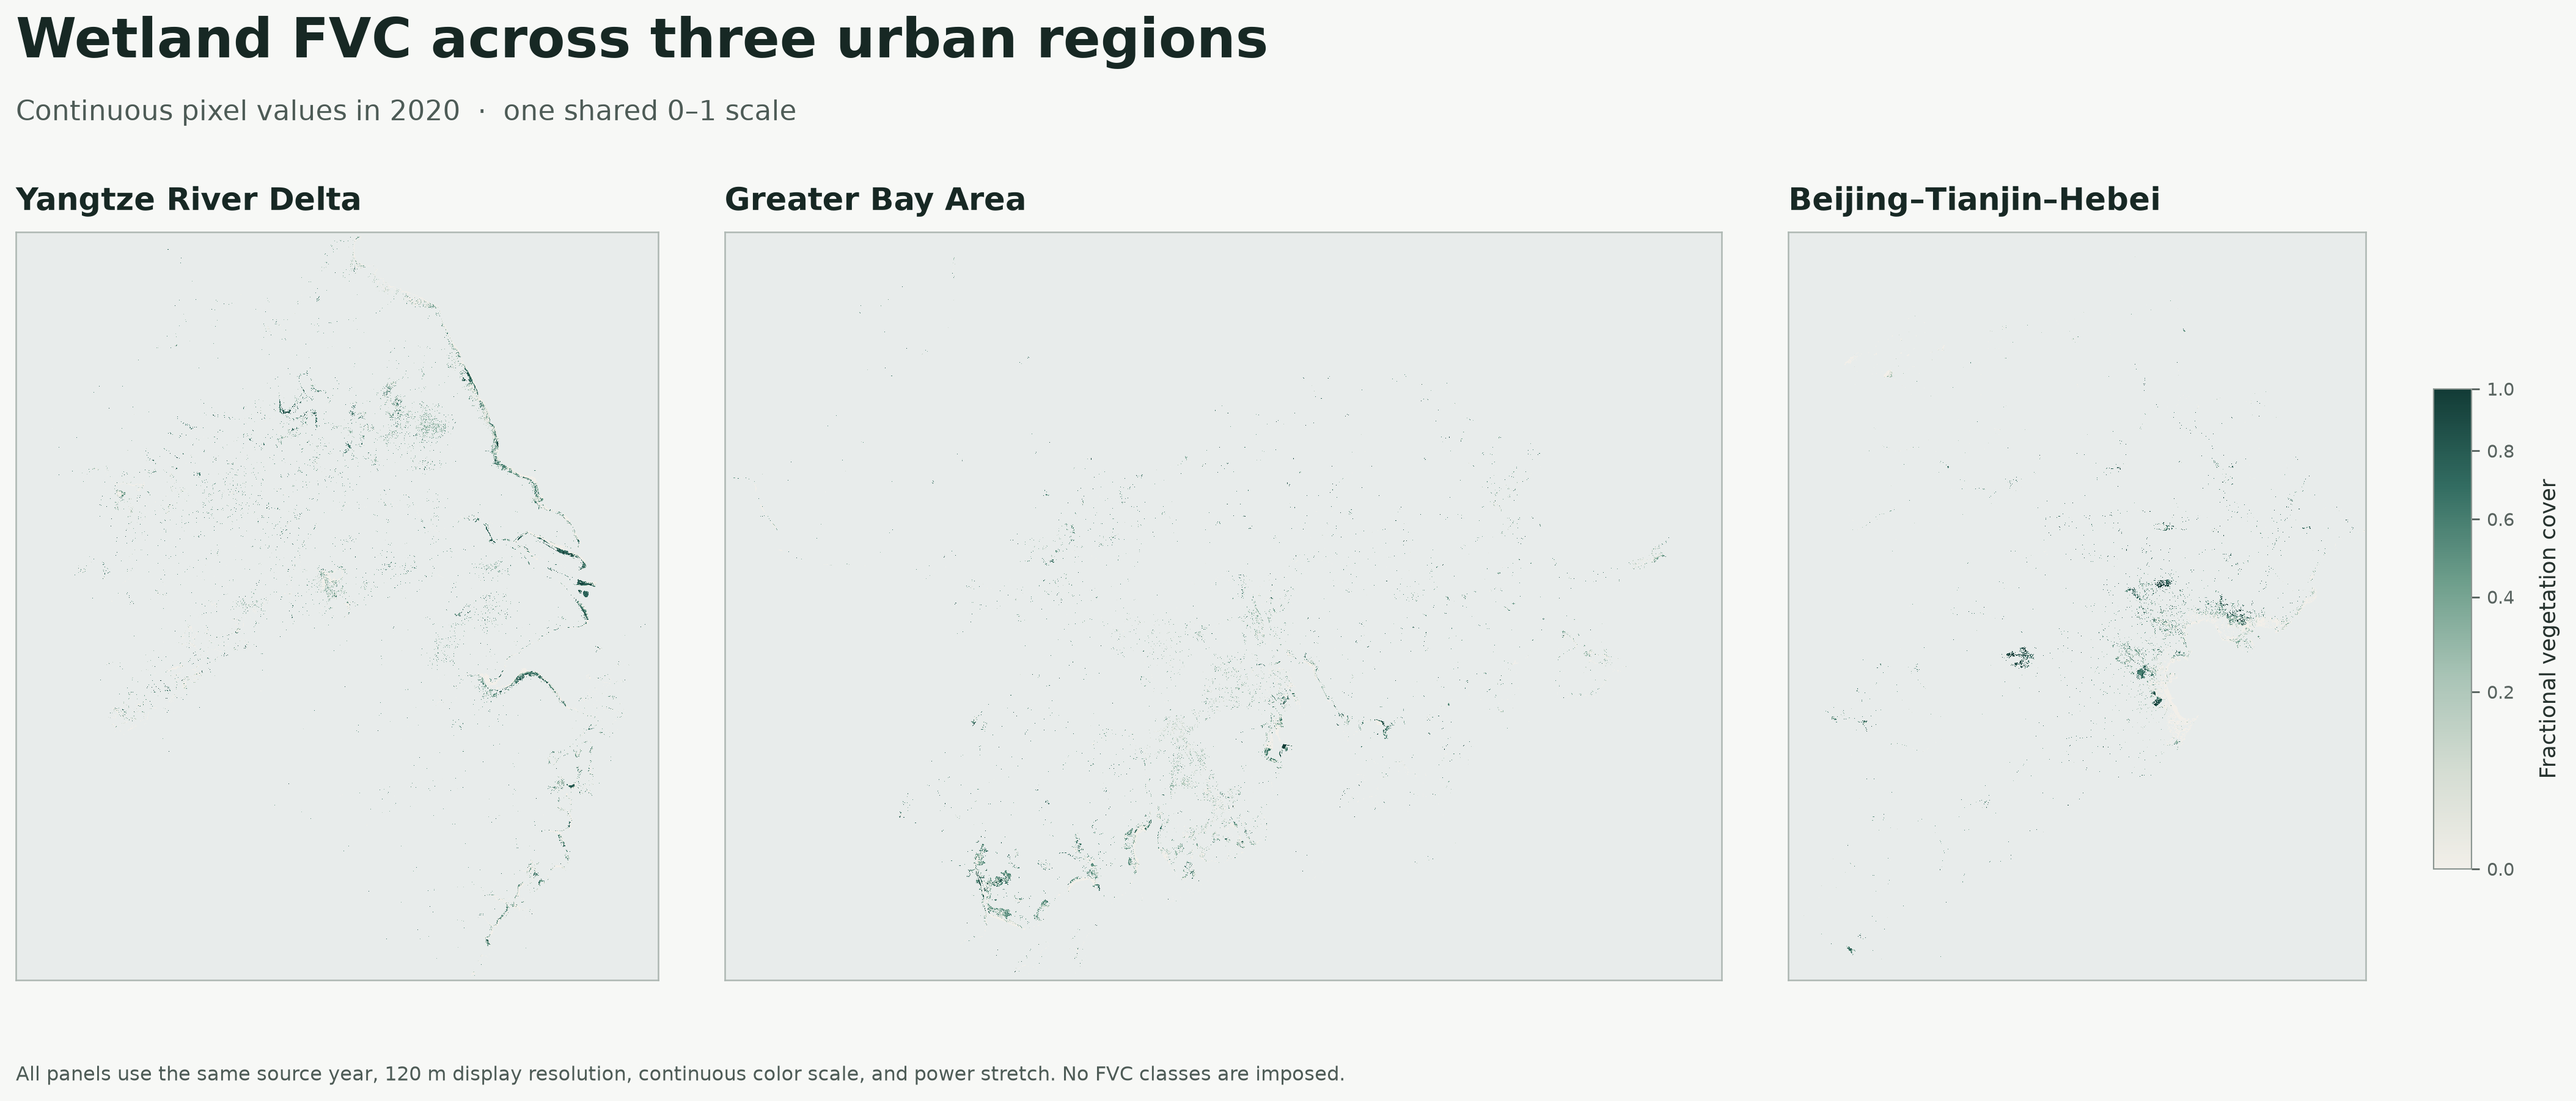
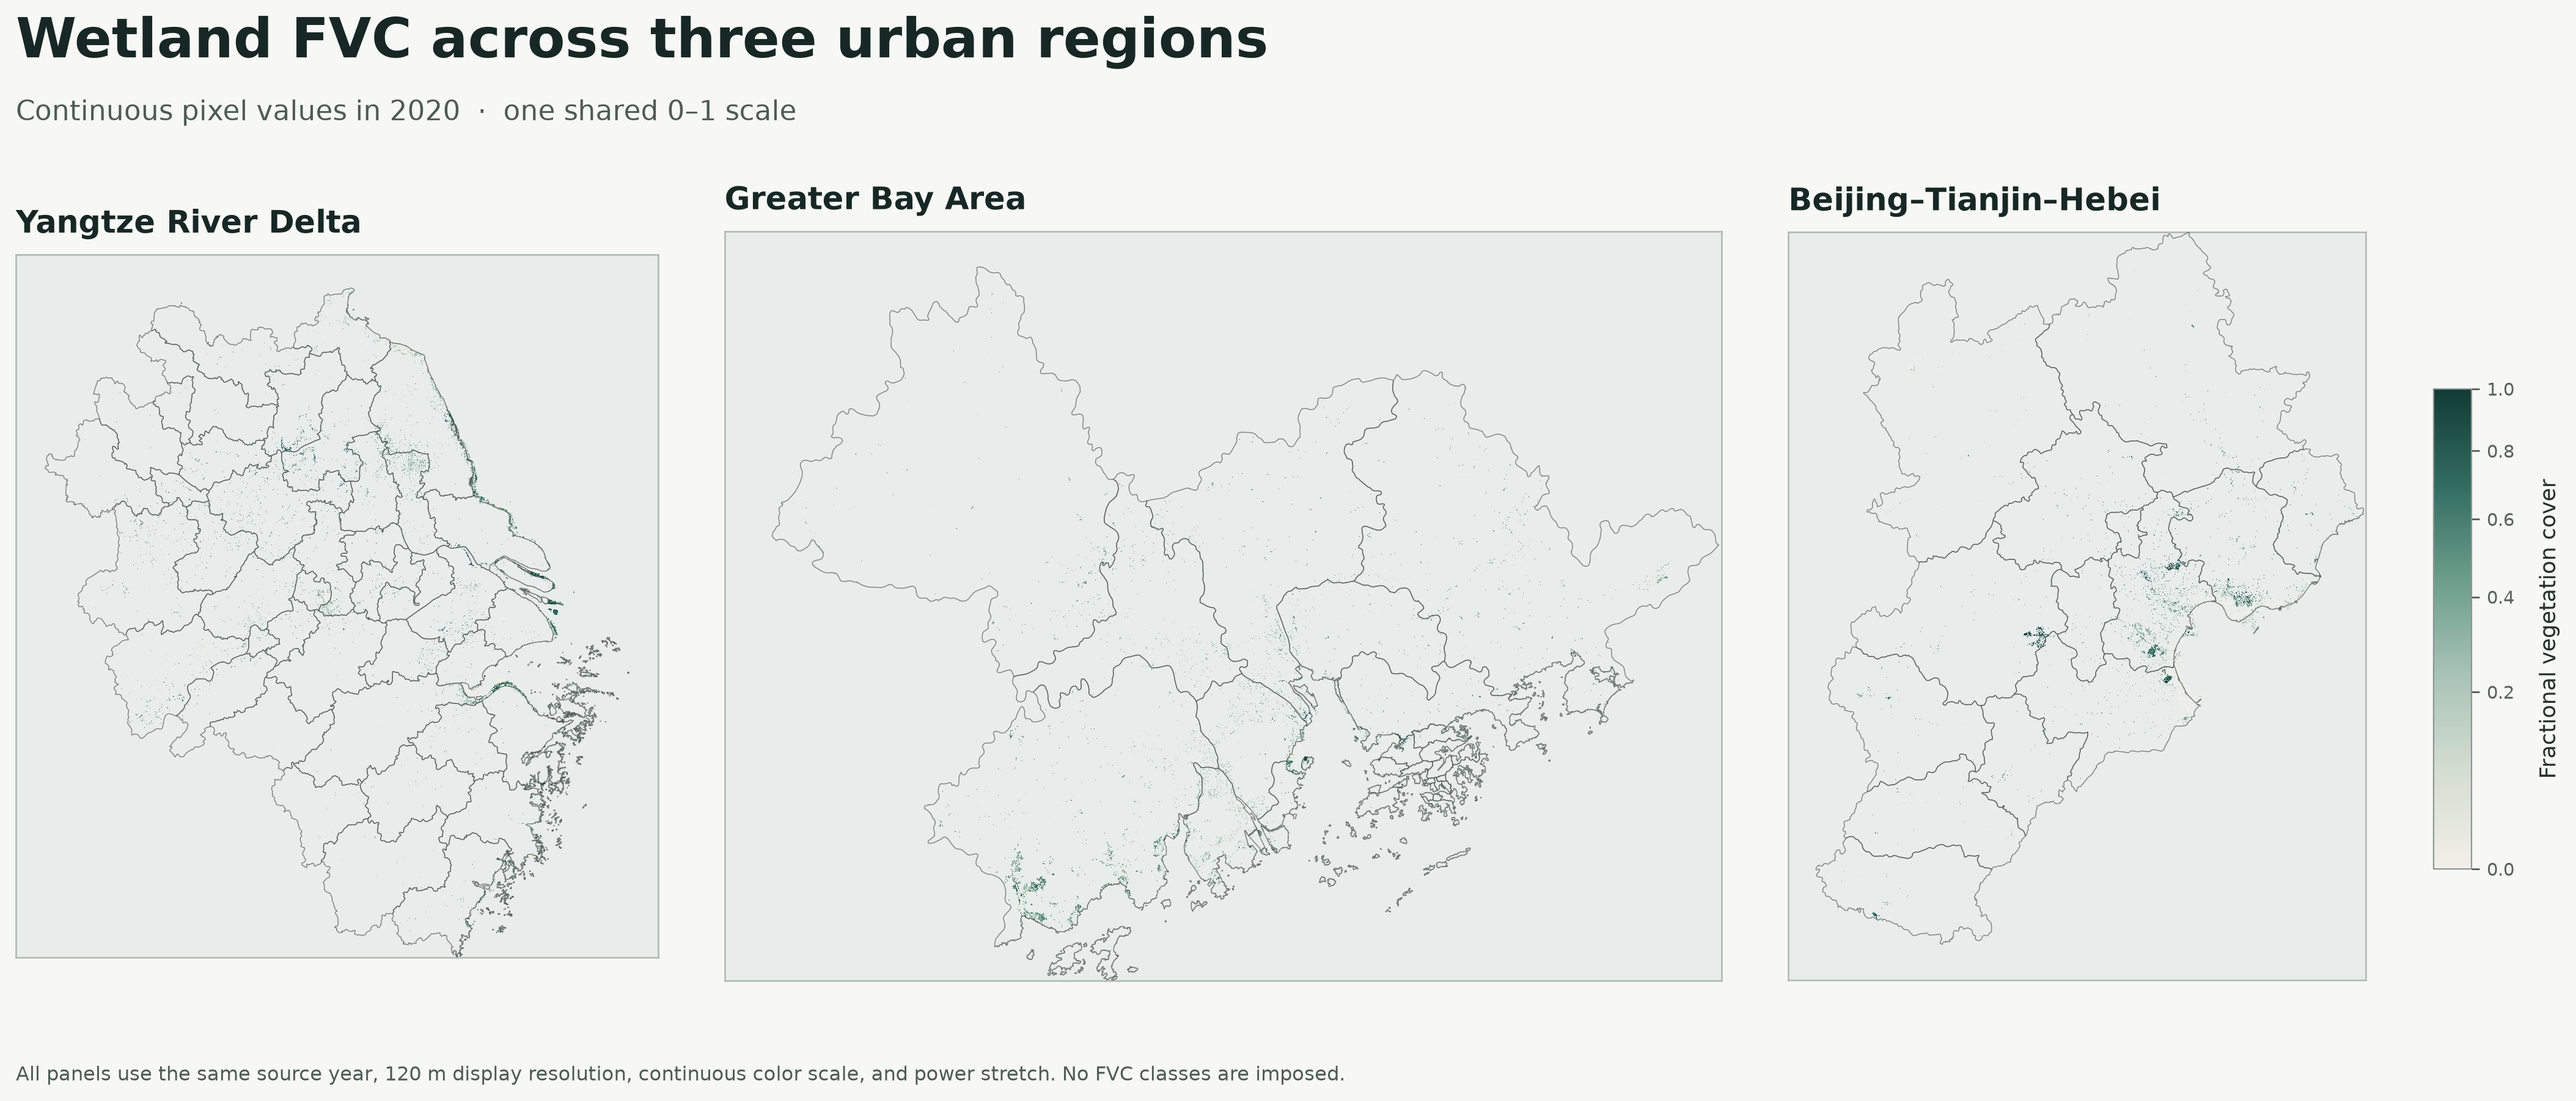
Overlay city boundaries on continuous FVC maps

diff --git a/python_analysis/src/spatial_fvc_map.py b/python_analysis/src/spatial_fvc_map.py
@@ -20,6 +20,50 @@ REGION_NAMES = {
     "GBA": "Greater Bay Area",
     "BTH": "Beijing–Tianjin–Hebei",
 }
+REGION_EPSG = {"YRD": 32650, "GBA": 32649, "BTH": 32650}
+GBA_CITIES = {
+    "Dongguan", "Foshan", "Guangzhou", "Huizhou", "Jiangmen",
+    "Shenzhen", "Zhaoqing", "Zhongshan", "Zhuhai",
+}
+
+
+def load_city_lines(shapefile_path: Path, region: str):
+    """Read selected GADM level-2 outlines and project them to raster UTM km."""
+    try:
+        import shapefile
+        from pyproj import Transformer
+    except ImportError as exc:
+        raise RuntimeError("City outlines require pyshp and pyproj") from exc
+
+    reader = shapefile.Reader(str(shapefile_path))
+    fields = {field[0]: index for index, field in enumerate(reader.fields[1:])}
+    transformer = Transformer.from_crs(4326, REGION_EPSG[region], always_xy=True)
+    lines = []
+    for shape_record in reader.iterShapeRecords():
+        record = shape_record.record
+        level1 = record[fields["NAME_1"]]
+        level2 = record[fields["NAME_2"]]
+        selected = (
+            (region == "YRD" and level1 in {"Anhui", "Jiangsu", "Shanghai", "Zhejiang"})
+            or (region == "BTH" and level1 in {"Beijing", "Hebei", "Tianjin"})
+            or (region == "GBA" and (level2 in GBA_CITIES or level1 == "Hong Kong"))
+        )
+        if not selected:
+            continue
+        points = shape_record.shape.points
+        parts = list(shape_record.shape.parts) + [len(points)]
+        for start, end in zip(parts[:-1], parts[1:]):
+            if end - start < 2:
+                continue
+            lon, lat = zip(*points[start:end])
+            x, y = transformer.transform(lon, lat)
+            lines.append((np.asarray(x) / 1000, np.asarray(y) / 1000))
+    return lines
+
+
+def draw_city_lines(ax, lines):
+    for x, y in lines:
+        ax.plot(x, y, color="#4B5552", linewidth=0.38, alpha=0.72, zorder=4)
 
 
 def load_geotiff(path: Path):
@@ -37,7 +81,8 @@ def load_geotiff(path: Path):
     return np.ma.masked_where(~valid, values), [xmin / 1000, xmax / 1000, ymin / 1000, ymax / 1000], pixel_x
 
 
-def render(input_path: Path, output_path: Path, region: str, year: int):
+def render(input_path: Path, output_path: Path, region: str, year: int,
+           boundary_path: Path | None = None, region_key: str | None = None):
     data, extent, pixel_m = load_geotiff(input_path)
     finite = data.compressed()
     cmap = LinearSegmentedColormap.from_list("fvc_continuous", PALETTE, N=256)
@@ -48,6 +93,8 @@ def render(input_path: Path, output_path: Path, region: str, year: int):
     ax.set_facecolor("#E8ECEB")
     norm = PowerNorm(gamma=0.62, vmin=0, vmax=1)
     im = ax.imshow(data, extent=extent, origin="upper", cmap=cmap, norm=norm, interpolation="nearest")
+    if boundary_path and region_key:
+        draw_city_lines(ax, load_city_lines(boundary_path, region_key))
     ax.set_aspect("equal", adjustable="box")
     ax.set_xlabel("Easting (km)", fontsize=10, color="#3C4743", labelpad=10)
     ax.set_ylabel("Northing (km)", fontsize=10, color="#3C4743", labelpad=10)
@@ -81,7 +128,8 @@ def render(input_path: Path, output_path: Path, region: str, year: int):
     plt.close(fig)
 
 
-def render_triptych(inputs: list[Path], output_path: Path, year: int = 2020):
+def render_triptych(inputs: list[Path], output_path: Path, year: int = 2020,
+                    boundary_path: Path | None = None):
     """Render three same-year rasters with one continuous scale and display norm."""
     if len(inputs) != 3:
         raise ValueError("Triptych requires YRD, GBA, and BTH rasters in that order")
@@ -104,6 +152,8 @@ def render_triptych(inputs: list[Path], output_path: Path, year: int = 2020):
     for ax, key, (data, extent, pixel_m) in zip(axes, REGION_NAMES, loaded):
         ax.set_facecolor("#E8ECEB")
         image = ax.imshow(data, extent=extent, origin="upper", cmap=cmap, norm=norm, interpolation="nearest")
+        if boundary_path:
+            draw_city_lines(ax, load_city_lines(boundary_path, key))
         ax.set_aspect("equal", adjustable="box")
         ax.set_title(REGION_NAMES[key], loc="left", fontsize=14, fontweight="bold", color="#172824", pad=10)
         ax.set_xticks([])
@@ -139,15 +189,17 @@ def main():
     parser.add_argument("--year", type=int, default=2020)
     parser.add_argument("--triptych", nargs=3, type=Path, metavar=("YRD", "GBA", "BTH"))
     parser.add_argument("--triptych-output", type=Path)
+    parser.add_argument("--city-boundaries", type=Path, help="GADM level-2 shapefile in EPSG:4326")
+    parser.add_argument("--region-key", choices=REGION_NAMES)
     args = parser.parse_args()
     if args.triptych:
         if args.triptych_output is None:
             parser.error("--triptych-output is required with --triptych")
-        render_triptych(args.triptych, args.triptych_output, args.year)
+        render_triptych(args.triptych, args.triptych_output, args.year, args.city_boundaries)
     else:
         if args.input is None or args.output is None:
             parser.error("input and output are required unless --triptych is used")
-        render(args.input, args.output, args.region, args.year)
+        render(args.input, args.output, args.region, args.year, args.city_boundaries, args.region_key)
 
 
 if __name__ == "__main__":

diff --git a/docs/assets/spatial/README.md b/docs/assets/spatial/README.md
@@ -6,7 +6,7 @@ These three regional panels and the repository hero use the reviewed 2020 `ALL` 
 - `SRDP_FVC_2020_GBA_ALL.tif`
 - `SRDP_FVC_2020_BTH_ALL.tif`
 
-The rasters contain continuous FVC values in `[0, 1]` at 120 m display resolution. All figures use the same continuous palette, `PowerNorm(gamma=0.62)`, and fixed 0–1 color limits. The power transform affects color rendering only; it does not alter the stored FVC values or the 30 m statistical tables.
+The rasters contain continuous FVC values in `[0, 1]` at 120 m display resolution. All figures use the same continuous palette, `PowerNorm(gamma=0.62)`, and fixed 0–1 color limits. The power transform affects color rendering only; it does not alter the stored FVC values or the 30 m statistical tables. Thin reference outlines come from GADM 4.1 level-2 boundaries; the boundary source is visually overlaid and is not used to calculate FVC.
 
 No five-level or other categorical FVC classification is used. The individual images retain projected coordinates and distribution summaries; the triptych removes repeated axes for a cleaner cross-region overview.
 
@@ -15,5 +15,8 @@ The source rasters are not committed because they are upstream GEE display expor
 ```bash
 python python_analysis/src/spatial_fvc_map.py \
   --triptych YRD_2020.tif GBA_2020.tif BTH_2020.tif \
-  --triptych-output docs/assets/fvc_continuous_2020_triptych.png
+  --triptych-output docs/assets/fvc_continuous_2020_triptych.png \
+  --city-boundaries gadm41_CHN_2.shp
 ```
+
+GADM 4.1 is available for academic and other non-commercial use from the [GADM download page](https://gadm.org/download_country.html). The boundary files are not redistributed here.

diff --git a/README.md b/README.md
@@ -4,7 +4,7 @@ This repository contains the vegetation-cover part of an undergraduate SRDP wetl
 
 ![Continuous wetland FVC across the three urban regions in 2020](docs/assets/fvc_continuous_2020_triptych.png)
 
-*Continuous FVC values from the three current 2020 spatial display exports. All panels use 120 m source pixels, one continuous 0–1 color scale, and the same power stretch; no FVC classes are created. Formal regional and city statistics remain based on the reviewed 30 m tables.*
+*Continuous FVC values from the three current 2020 spatial display exports. All panels use 120 m source pixels, one continuous 0–1 color scale, and the same power stretch; no FVC classes are created. Thin city outlines from GADM 4.1 provide geographic reference only and are not used in the FVC calculation. Formal regional and city statistics remain based on the reviewed 30 m tables.*
 
 Full-size regional views: [Yangtze River Delta](docs/assets/spatial/yrd_fvc_continuous_2020.png) · [Greater Bay Area](docs/assets/spatial/gba_fvc_continuous_2020.png) · [Beijing–Tianjin–Hebei](docs/assets/spatial/bth_fvc_continuous_2020.png)
 
